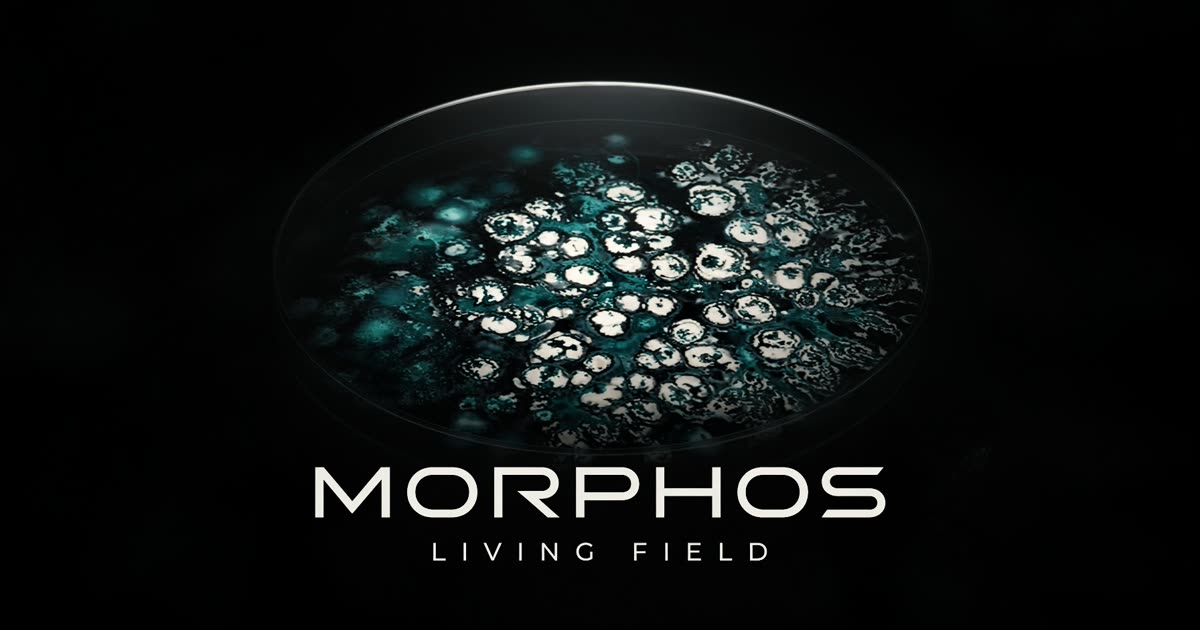
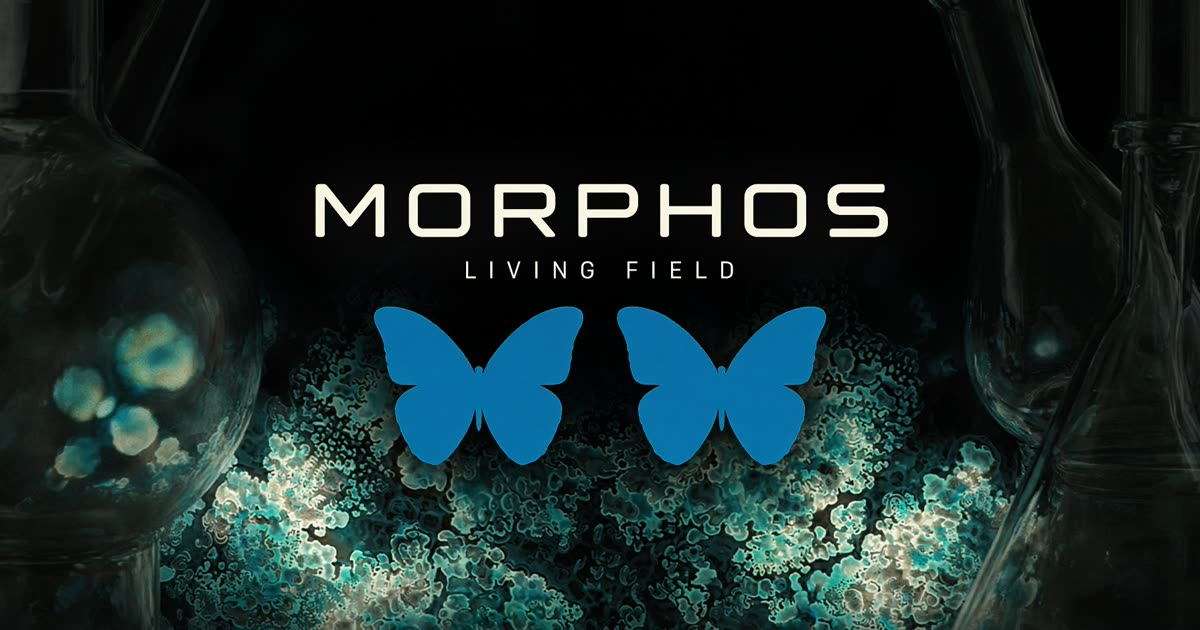
Give MORPHOS a Morpho mark.
Identical blue wing silhouettes, hairline teal outline from the Abyss
field. Favicon, home-screen icon, Enter, HUD, share card, and X banner.

diff --git a/src/components/instrument/wordmark.tsx b/src/components/instrument/wordmark.tsx
@@ -21,6 +21,34 @@ const WEIGHT = {
   hud: 500,
 } as const;
 
+/** Two identical Morpho wing silhouettes. Fill is Abyss mid-blue; outline is the living teal. */
+export function MorphoMark({
+  className,
+  title,
+}: {
+  className?: string;
+  title?: string;
+}) {
+  return (
+    <svg
+      viewBox="0 0 32 32"
+      className={cn("shrink-0", className)}
+      aria-hidden={!title}
+      role={title ? "img" : undefined}
+    >
+      {title ? <title>{title}</title> : null}
+      <g fill="#1e88c4" stroke="#8fe8dc" strokeWidth="0.55" strokeLinejoin="round" strokeLinecap="round">
+        <path d="M15.35 10.1C10.6 5.6 4.9 7.5 4.4 13.2C3.95 17.2 8.7 18.6 14.2 15.7C14.9 14 15.35 12 15.35 10.1Z" />
+        <path d="M15.45 15.45C9.3 16.2 5.55 20.5 6.75 24.55C7.65 27.15 12.45 26.65 15.15 22.25C15.55 20.05 15.55 17.35 15.45 15.45Z" />
+        <path d="M16.65 10.1C21.4 5.6 27.1 7.5 27.6 13.2C28.05 17.2 23.3 18.6 17.8 15.7C17.1 14 16.65 12 16.65 10.1Z" />
+        <path d="M16.55 15.45C22.7 16.2 26.45 20.5 25.25 24.55C24.35 27.15 19.55 26.65 16.85 22.25C16.45 20.05 16.45 17.35 16.55 15.45Z" />
+      </g>
+      <ellipse cx="16" cy="16.4" rx="1.05" ry="6.15" fill="#07080a" />
+      <circle cx="16" cy="10.15" r="1.2" fill="#07080a" />
+    </svg>
+  );
+}
+
 export function Wordmark({
   variant = "hud",
   className,

diff --git a/src/components/instrument/morphogen-app.tsx b/src/components/instrument/morphogen-app.tsx
@@ -16,7 +16,7 @@ import { toast } from "sonner";
 import { Button } from "@/components/ui/button";
 import { ControlDock } from "./control-dock";
 import { StartGate } from "./start-gate";
-import { LivingField, Wordmark } from "./wordmark";
+import { LivingField, MorphoMark, Wordmark } from "./wordmark";
 import { RDEngine } from "@/lib/morphogen/rd-engine";
 import { AudioEngine } from "@/lib/morphogen/audio-engine";
 import { MidiOut, type MidiDevice } from "@/lib/morphogen/midi-out";
@@ -721,7 +721,8 @@ export function MorphogenApp() {
           className="pointer-events-none absolute inset-x-0 top-0 z-30 flex items-start justify-center px-16 pt-hud-t sm:justify-between sm:px-4"
         >
           <div className="pointer-events-none rounded-md bg-bg-elevated/90 px-2 py-1 shadow-[var(--shadow-border)]">
-            <p className="text-lg text-fg">
+            <p className="flex items-center gap-1.5 text-lg text-fg">
+              <MorphoMark className="size-5" />
               <Wordmark variant="hud" />
             </p>
             <LivingField className="mt-0.5 text-[9px]" />

diff --git a/src/components/instrument/sensor-remote.tsx b/src/components/instrument/sensor-remote.tsx
@@ -1,6 +1,6 @@
 import { useCallback, useEffect, useRef, useState } from "react";
 import { Button } from "@/components/ui/button";
-import { LivingField, Wordmark } from "./wordmark";
+import { LivingField, MorphoMark, Wordmark } from "./wordmark";
 import { useP2PRoom } from "@/lib/multiplayer/use-p2p-room";
 import {
   attachSensors,
@@ -69,8 +69,9 @@ export function SensorRemote({ code }: { code: string }) {
   return (
     <div className="relative flex h-dvh flex-col overflow-hidden bg-bg text-fg">
       <header className="px-5 pt-[max(1.25rem,env(safe-area-inset-top))] pb-2">
+        <MorphoMark className="mb-2 size-8" title="MORPHOS" />
         <LivingField className="text-[10px]" />
-        <h1 className="mt-1 text-3xl">
+        <h1 className="mt-1 flex items-center gap-2 text-3xl">
           <Wordmark variant="hud" className="text-3xl" />
         </h1>
         <p className="mt-1 font-mono text-sm tracking-[0.2em] text-muted">{code}</p>

diff --git a/src/components/instrument/start-gate.tsx b/src/components/instrument/start-gate.tsx
@@ -1,5 +1,5 @@
 import { Button } from "@/components/ui/button";
-import { LivingField, Wordmark } from "./wordmark";
+import { LivingField, MorphoMark, Wordmark } from "./wordmark";
 
 export function StartGate({ onEnter }: { onEnter: () => void }) {
   return (
@@ -8,6 +8,7 @@ export function StartGate({ onEnter }: { onEnter: () => void }) {
       data-ui
     >
       <div className="mx-auto w-full max-w-lg">
+        <MorphoMark className="mb-4 size-12" title="MORPHOS" />
         <LivingField className="text-[10px]" />
         <h1 className="mt-3 max-w-full text-wordmark text-fg">
           <Wordmark variant="hero" />

diff --git a/CHANGELOG.md b/CHANGELOG.md
@@ -34,7 +34,9 @@ and this project uses [Semantic Versioning](https://semver.org/spec/v2.0.0.html)
 
 - Vibrato is no longer slaved to the gyro. Default depth is **off**. Rate
   (0.5–12 Hz) and depth (cents) live on the Sound face.
-- Share card and X banner retitled **MORPHOS** / Living Field.
+- Share card and X banner retitled **MORPHOS** / Living Field. Two Morpho
+  silhouettes (Costa Rican blue, hairline teal outline) emerge from the field.
+  Favicon, home-screen icon, Enter mark, and HUD use the same wings.
 - Spatial audio: the glass is a table in front of the listener (HRTF
   PannerNode). Left/right is azimuth, top is farther and higher, bottom
   is in the lap. Locked drones and recorded loops sit where they were
